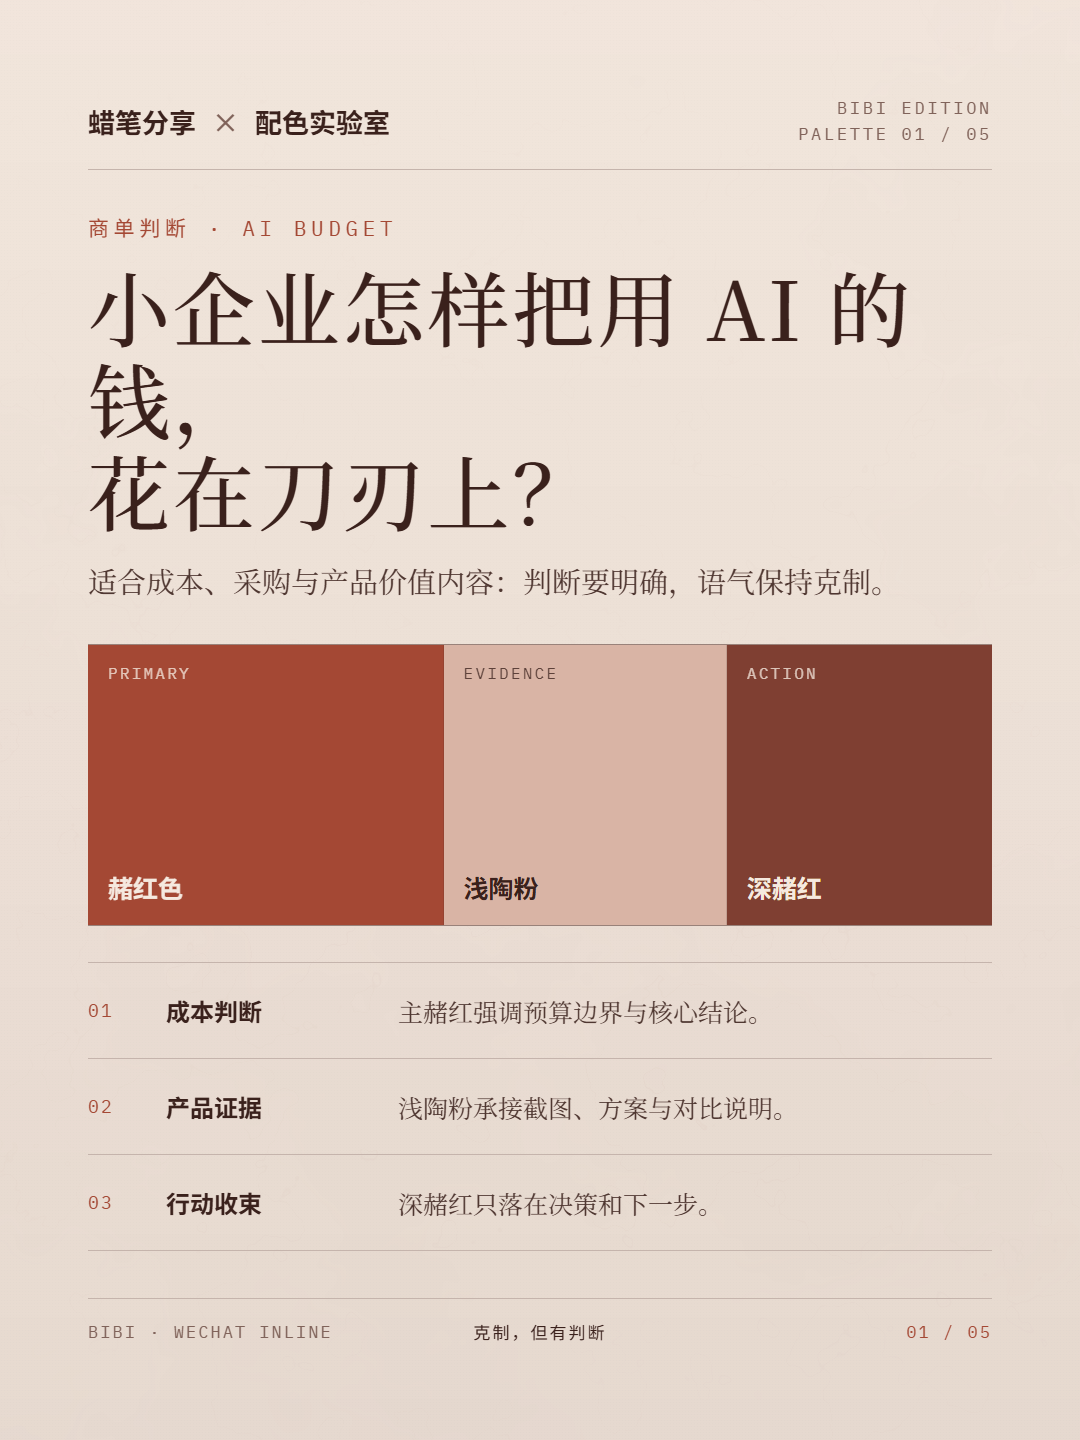
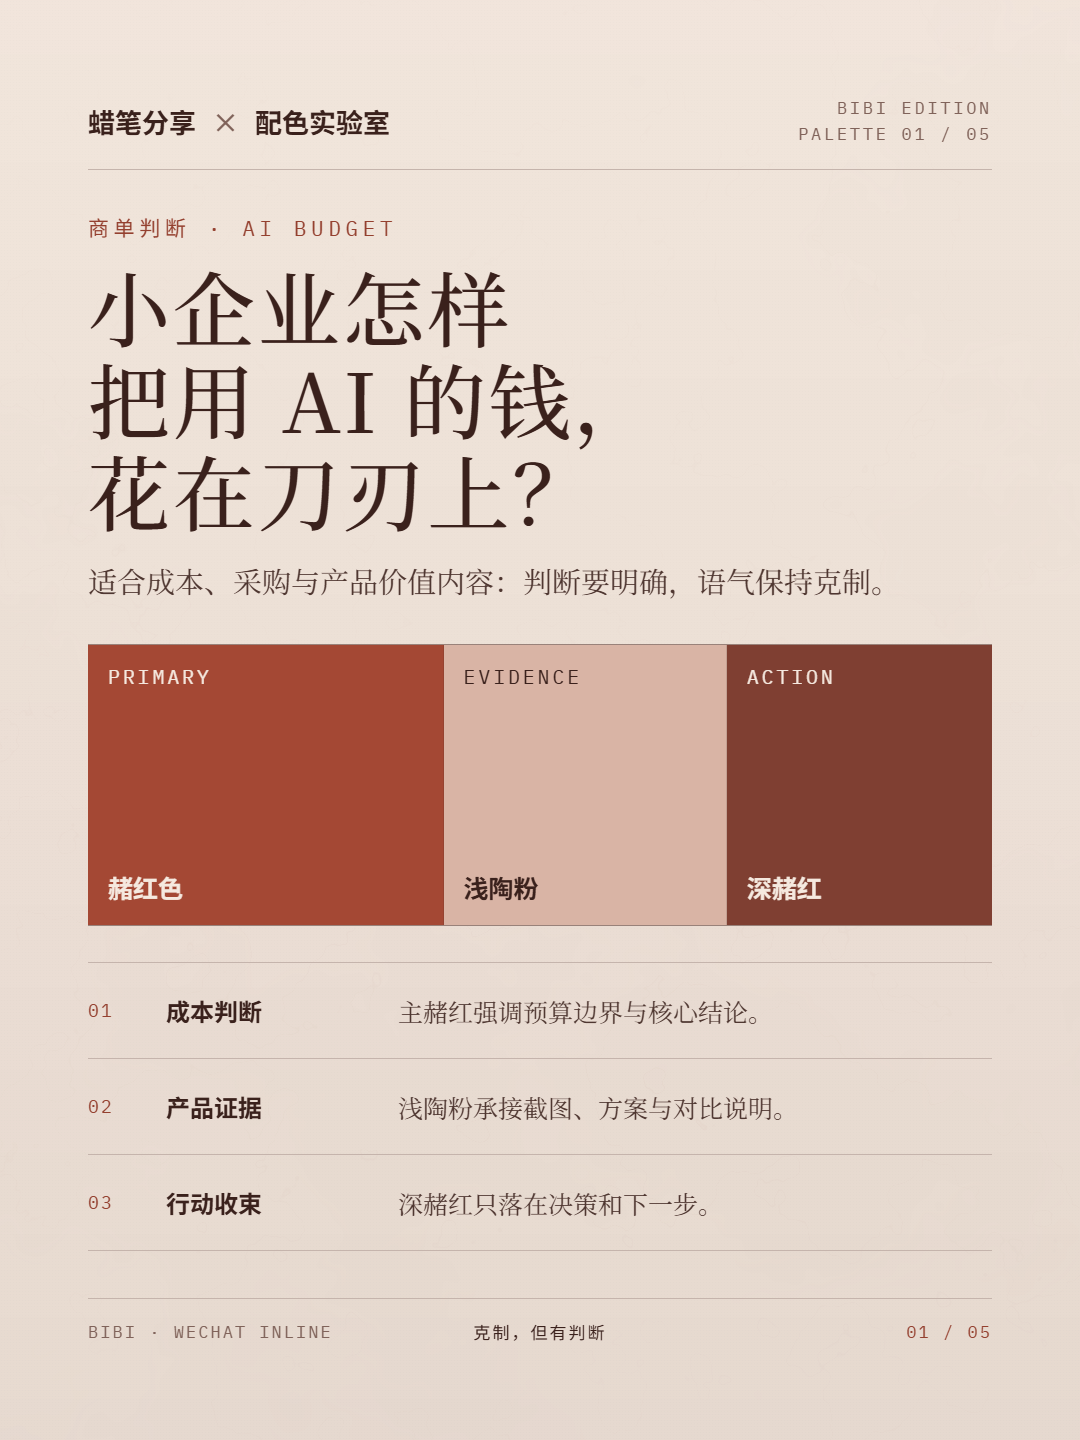
Validate WeChat body-card exports and improve palette text contrast

diff --git a/assets/template-editorial-card.html b/assets/template-editorial-card.html
@@ -601,6 +601,7 @@
 [data-theme="bibi-ochre-red"], [data-theme="ochre-red"]{
   --paper:#f5e9df; --paper-2:#e9d2c4; --ink:#3a211c; --muted:#80635a;
   --accent:#a44834; --accent-2:#d9b4a5; --accent-3:#7f3f32; --accent-soft:#d9b4a5; --accent-on:#f5e9df;
+  --accent-2-on:var(--ink); --accent-3-on:var(--paper);
   --accent-ink:#94402f; --accent-display:#a44834; --accent-ink-inverse:#e79985;
   --text-primary:#3a211c; --text-body:#4f3731; --text-secondary:#654d46; --text-helper:#80635a;
   --line-strong:#99827a; --line:#c5b4ac; --line-subtle:#ddd0c9;
@@ -611,6 +612,7 @@
 [data-theme="bibi-graphite-green"], [data-theme="graphite-green"]{
   --paper:#f5f1e8; --paper-2:#e8dfcf; --ink:#16251b; --muted:#5d665d;
   --accent:#2e6b4f; --accent-2:#a9b7a7; --accent-3:#1f513a; --accent-soft:#d4dfd2; --accent-on:#f5f1e8;
+  --accent-2-on:var(--ink); --accent-3-on:var(--paper);
   --accent-ink:#2e6b4f; --accent-display:#2e6b4f; --accent-ink-inverse:#88c6a6;
   --text-primary:#16251b; --text-body:#39473c; --text-secondary:#4d5a50; --text-helper:#5d665d;
   --line-strong:#899286; --line:#bcc1b8; --line-subtle:#d7d7ce;
@@ -621,17 +623,19 @@
 [data-theme="bibi-sage-moss"], [data-theme="sage-moss"]{
   --paper:#f4f4ed; --paper-2:#dde3d8; --ink:#263129; --muted:#667267;
   --accent:#7f927e; --accent-2:#aab7a5; --accent-3:#667a61; --accent-soft:#c8d2c3;
-  --accent-on:#f4f4ed; --accent-ink:#5f745f; --accent-display:#667a61; --accent-ink-inverse:#b8c9b4;
+  --accent-2-on:var(--ink); --accent-3-on:#ffffff;
+  --accent-on:#1b261e; --accent-ink:#526652; --accent-display:#667a61; --accent-ink-inverse:#b8c9b4;
   --text-primary:#263129; --text-body:#3e4941; --text-secondary:#536057; --text-helper:#667267;
   --line-strong:#879288; --line:#bac2b9; --line-subtle:#d6dbd2;
   --ink-rgb:38,49,41; --paper-rgb:244,244,237; --accent-rgb:127,146,126;
-  --accent-on-rgb:244,244,237; --accent-on-text:#f4f4ed; --accent-on-text-rgb:244,244,237;
+  --accent-on-rgb:27,38,30; --accent-on-text:#1b261e; --accent-on-text-rgb:27,38,30;
   color-scheme:light;
 }
 [data-theme="bibi-pear-gold"], [data-theme="pear-gold"]{
   --paper:#fbf6e3; --paper-2:#e8dfc7; --ink:#3b3426; --muted:#7a705a;
   --accent:#c4a760; --accent-2:#cdc1a2; --accent-3:#b6954a; --accent-soft:#e8dca8;
-  --accent-on:#3b3426; --accent-ink:#8d722d; --accent-display:#9c8038; --accent-ink-inverse:#6f571f;
+  --accent-2-on:var(--ink); --accent-3-on:#332c20;
+  --accent-on:#3b3426; --accent-ink:#735c24; --accent-display:#9c8038; --accent-ink-inverse:#6f571f;
   --text-primary:#3b3426; --text-body:#514936; --text-secondary:#655c47; --text-helper:#7a705a;
   --line-strong:#958a70; --line:#c8bea7; --line-subtle:#e3dbc6;
   --ink-rgb:59,52,38; --paper-rgb:251,246,227; --accent-rgb:196,167,96;
@@ -641,11 +645,12 @@
 [data-theme="bibi-terracotta-ochre"], [data-theme="terracotta-ochre"]{
   --paper:#f4e9e1; --paper-2:#e4c8b9; --ink:#442b25; --muted:#84675d;
   --accent:#a96050; --accent-2:#95584d; --accent-3:#b57a45; --accent-soft:#d9afa0;
-  --accent-on:#f4e9e1; --accent-ink:#914b3e; --accent-display:#a96050; --accent-ink-inverse:#e0aa99;
+  --accent-2-on:var(--paper); --accent-3-on:#221310;
+  --accent-on:#fffaf6; --accent-ink:#834336; --accent-display:#a96050; --accent-ink-inverse:#e0aa99;
   --text-primary:#442b25; --text-body:#5a3e37; --text-secondary:#705248; --text-helper:#84675d;
   --line-strong:#9c8178; --line:#c9b3aa; --line-subtle:#dfcec7;
   --ink-rgb:68,43,37; --paper-rgb:244,233,225; --accent-rgb:169,96,80;
-  --accent-on-rgb:244,233,225; --accent-on-text:#f4e9e1; --accent-on-text-rgb:244,233,225;
+  --accent-on-rgb:255,250,246; --accent-on-text:#fffaf6; --accent-on-text-rgb:255,250,246;
   color-scheme:light;
 }
 /* BIBI:FORK-THEMES:END */

diff --git a/SKILL.md b/SKILL.md
@@ -1,6 +1,6 @@
 ---
 name: guizang-social-card-skill
-description: Generate Guizang-style social card image sets, Bibi-branded WeChat inline cards, Live Photo motion cards, material-first Live Photo puzzle layouts, triple Live Photo collages, long-video-to-Live-Photo treatments, and WeChat official account cover pairs from articles, scripts, screenshots, product notes, subtitles, photos, or user-supplied videos. Use when the user asks for 小红书图文, Rednote/Xiaohongshu images, 公众号贴图, 公众号小绿书, 公众号正文配图, 笔笔贴图, social cards, carousel images, 3:4 covers, Live Photo, 实况照片, 单视频实况拼图, 二宫格实况拼图, 三连实况拼图, 四宫格实况拼图, 微信公众号封面, WeChat 21:9 + 1:1 covers, Swiss Style, or magazine-style social images.
+description: Make Guizang-style social cards, Bibi WeChat body cards, material-first Live Photo puzzle layouts, or paired WeChat covers. Use for 小红书图文, 公众号贴图, 公众号小绿书, 笔笔贴图, 公众号正文信息卡, Swiss Style or editorial carousels, Live Photo/实况照片, multi-well motion collages, or 微信公众号封面 (21:9 + 1:1). For general 公众号正文配图, use this only when the user wants typeset information cards. Follow an explicitly requested illustration or article-layout workflow for those deliverables.
 ---
 
 # Guizang Social Card Skill
@@ -21,7 +21,7 @@ Use this skill for:
 - Triple Live Photo collages when the user has three short videos, three results, three viewpoints, or a high-information comparison that should stay inside one image-card unit.
 - Long-video intake for Live Photo: diagnose whether to trim, speed up, split into a triple collage, or ask the user for a specific time range before rendering.
 - WeChat Official Account cover pairs: one `21:9` main cover plus one `1:1` square cover, composed together in the same HTML for visual checking.
-- Bibi WeChat inline card sets: `1080 × 1440` / `3:4` cover plus content pages, using the recurring co-brand header/footer and one maintained Bibi personal palette.
+- Bibi WeChat inline cards: `1080 × 1440` / `3:4` body cards, single or grouped as requested, using consistent header/footer and one maintained Bibi palette or an explicitly requested brand theme.
 - Screenshot-heavy product posts, article covers, tutorial carousels, outdoor/lifestyle notes, AI/product update explainers.
 - Social images that need Guizang-style Swiss or editorial magazine layouts.
 
@@ -81,7 +81,7 @@ Read these files as needed:
 - `references/image-overlay.md` whenever text sits on top of a photo: photo qualification, localized tint fallback, and face / subject avoidance via multimodal subject mapping.
 - `references/screenshot-treatment.md` when the user supplies an app / web / code / dashboard screenshot — picks `.frame-shot` over `.frame-img`, sets corners/shadow/bg/inset, decides on `.device-browser` or `.device-phone` chrome.
 - `references/co-brand-header.md` whenever a supplied logo is paired with a creator credit, partner name, sponsor, or recurring header lockup — normalize visible bounds first, then apply optical alignment and multi-page consistency checks.
-- `references/bibi-wechat-inline.md` whenever the user asks for 公众号贴图 / 公众号小绿书 / 公众号正文配图 / 笔笔贴图, or asks to continue the recurring co-brand header, footer, or any maintained Bibi personal palette.
+- `references/bibi-wechat-inline.md` for 公众号贴图 / 公众号小绿书 / 笔笔贴图 or body illustrations explicitly requested as typeset cards, and when reusing Bibi's header, footer, or palettes.
 - `references/map-component.md` when the content has spatial relationships (travel route, store locations, walking tour) — real routes default to Mapbox Static or OSM static tiles; schematic SVG is only for conceptual / illustrative maps. Pins are HTML overlays; never use live JS maps.
 - `references/title-shortener.md` when the task is a WeChat 21:9+1:1 cover pair, or any cross-platform reuse — derives the 1:1 short title from the long one (5-step extraction, 4 patterns, anti-patterns, sizing on `.poster.square`).
 - `references/category-cookbook.md` to route a user-named Rednote category (旅行 / 职场 / 游戏 / 影视 / 彩妆 / 美食 / 穿搭 / 家居 / 健身 / 情感 / 推荐) to applicable recipes and to confirm scope.
@@ -93,6 +93,7 @@ Read these files as needed:
 
 Gather only the missing information that changes the output:
 
+- For text-led Bibi WeChat body cards, the article or notes can supply the evidence. Skip the image-source question below unless the requested layout or claim needs a specific image.
 - Target platforms and ratios.
 - Source text, subtitles, article, or title.
 - **Rednote category** — if the user names one of the 11 common types (旅行 / 职场 / 游戏 / 影视 / 美食 / 彩妆 / 穿搭 / 家居 / 健身 / 情感 / 推荐), route via `references/category-cookbook.md` to find the right recipes and to confirm the request is inside the capability circle (see "Rednote Category Capability" above). If a request lands in the outside-scope bucket, surface that to the user **before** designing, do not silently retrofit.
@@ -135,12 +136,14 @@ For WeChat cover pairs:
 
 For Bibi WeChat inline cards:
 
-- Produce a `3:4` cover plus 4-8 content pages unless the source needs fewer pages.
-- Use one clear idea per page with a kicker, title, short explanation, evidence image/screenshot, and bottom takeaway when applicable.
+- Follow the requested count and roles. For an unspecified multi-card set, consider a `3:4` opener and 4–8 content pages; for a single body card, design it to be inserted at its intended paragraph.
+- Use one clear idea per page. Support it with the source text, verified data, a real screenshot, or a clearly labelled diagram as appropriate. Request a missing visual only if it is necessary to support the claim or fulfil the brief.
 - Keep the recurring co-brand header and page footer optically aligned across the set.
 - Read `references/bibi-wechat-inline.md` before planning or rendering.
 
 ### 3. Choose Style Mode
+
+For Bibi WeChat inline cards, use Editorial and the [Bibi palette rules](references/bibi-wechat-inline.md#笔笔专属主题). Follow a different visual direction only when the user explicitly asks for it.
 
 Pick one mode per package. **The two systems are not bound to specific content types** — what changes is the visual stance, not which topic you can talk about. A workplace essay can be Editorial; a travel ledger can be Swiss. Pick by the feeling you want, not by category lookup.
 
@@ -221,7 +224,7 @@ Default implementation pattern:
 - Put source images in `assets/`.
 - For recurring branded or co-branded headers, preserve the original logo, create a tightly cropped derivative when the source canvas has accidental padding, and reuse one lockup component across the full set. Inspect a 100% header crop before full-deck rendering; see `references/co-brand-header.md`.
 - Start from the seed template copied in Step 4.5, not a blank file. Prefer changing only the `<!-- POSTERS_HERE -->` region page-to-page. If a task needs custom layout CSS, add one clearly named task-scoped block in the copied file and keep semantic defaults reset (`figure { margin:0; }`, no browser-default spacing surprises).
-- Install dependencies once in the skill root: `npm install` (Playwright for rendering and validation, subset-font for font embedding).
+- Install dependencies once in the skill root with `npm install`. If Playwright's browser is missing, run `npx playwright install chromium` before rendering.
 - Render with `node <SKILL_ROOT>/scripts/render.mjs <task-dir>`. It embeds the fonts the page actually uses (offline, repeatable), waits for the frozen background and icons, writes `output/<poster-id>.png` plus the pair preview, and fails if an image is not its board size. User-registered local fonts (`node <SKILL_ROOT>/scripts/gz-fonts.mjs add …`) are embedded too and never leave the machine.
 - Inspect the rendered PNGs.
 - Keep `node validate-social-deck.mjs <task-dir>` available for auto-check passes. It checks overflow (R1), footer collision (R2), Swiss bold display (R3), minimum font size (R4), 4-band density (R5), `.h-xl` line caps (R6), browser-default figure margin drift (R7), visual bounds / bottom whitespace (R8), and title-to-content gaps (R9). Exit code 1 on any FAIL — fix before final delivery when auto-check is requested. WARN is advisory but read it.
@@ -309,6 +312,8 @@ If an image is only one element among many in a composite (e.g. one of nine phot
 
 ### 7. Deliver
 
+**Bibi WeChat inline cards.** Run `node <SKILL_ROOT>/validate-social-deck.mjs <task-dir> --bibi-inline`, then render and inspect the exact output files. Check the PNG count and IDs against the requested plan, confirm each file is 1080×1440, and inspect the cards at phone reading width before delivery. Fix FAILs and any visual issues; assess remaining WARNs against the actual layout. This mode includes validation in the normal delivery flow.
+
 **Show user first, validate on request.** Auto-running the validator after every render takes too long and delays the user from seeing results. Default flow:
 
 1. After rendering completes, immediately show the user the rendered images inline (absolute paths) with a one-sentence summary of what was built.
@@ -316,7 +321,7 @@ If an image is only one element among many in a composite (e.g. one of nine phot
 3. If the user says "我自己看" / "先给我" / "no need" — stop here, let them inspect, and respond to whatever they raise.
 4. If the user says "你查吧" / "auto-check" / "yes" — only then run `node validate-social-deck.mjs <task-dir>`, fix any FAIL, and re-render before final delivery. Mention density/cap WARNs.
 
-Never silently run the validator before showing the user — it costs minutes per pass and the user often spots issues faster.
+The review-first flow above covers the other formats unless the user asks for validation before delivery.
 
 Final response (after the user has reviewed or asked for auto-check) should include:
 

diff --git a/references/bibi-wechat-inline.md b/references/bibi-wechat-inline.md
@@ -1,20 +1,20 @@
 # 笔笔公众号正文贴图模式
 
-当用户说“公众号贴图”“公众号小绿书”“公众号正文配图”“笔笔贴图”，或要求沿用笔笔的联名页头、页尾与个人色调时，使用本模式。
+当用户说“公众号贴图”“公众号小绿书”“笔笔贴图”，或把公众号正文配图指定为排版信息卡时，使用本模式。用户指定蜡笔女孩等插画风格、整篇公众号排版或动态实况时，采用对应的交付流程。
 
 这个模式用于公众号文章正文中的竖版图文卡，不是公众号 `21:9 + 1:1` 封面对。
 
 ## 输出规格
 
 - 画布：`1080 × 1440`，比例 `3:4`。
-- 常规结构：1 张封面 + 4-8 张内容页；内容较完整时最多 9 张。
+- 按用户指定的张数和用途交付。只有需要一整组且没指定张数时，才参考 1 张开场页 + 4–8 张内容页，按信息量增减。只要 1 张正文图时直接对应段落。
 - PNG 输出，文字与关键图片放在 72-96px 横向安全边距内。
 - 文件名：`wechat-inline-01-cover.png`、`wechat-inline-02-<topic>.png`……
 - 每页只讲一个核心判断；完整论证留在公众号正文里。
 
 ## 笔笔专属主题
 
-用户指定颜色时直接使用；未指定时根据内容选择：
+用户点名预设时直接使用。指定品牌色时按 Skill 入口的品牌主题生成方式构建 Editorial 主题；辅助色可用 `--accent-soft` 或 `--paper-2`。未指定时根据内容选择：
 
 - `bibi-ochre-red` / `ochre-red`：赭红纸墨。适合商单、成本、产品价值、采购判断与案例内容。
 - `bibi-graphite-green` / `graphite-green`：石墨绿。适合 AI 工具、工作流、教程、方法论与理性分析。
@@ -30,6 +30,7 @@
 - `--accent-2`：证据区、次级标签、对照项；
 - `--accent-3`：行动建议、页码或小面积收束；
 - 标题和说明性标签继续使用 `--ink`，浅色只做纸底或大面积低对比分区。
+- 关键小字用 `--accent-ink`。预设色块上的文字分别用 `--accent-on`、`--accent-2-on`、`--accent-3-on`。自定义底色或叠加透明度后，按实际底色重查小字对比度，至少达到 4.5:1。
 
 单张卡通常使用主色 + 1 个辅助色即可；只有比较、三段结构或配色样卡才同时展示三色。不要把每个段落染成不同颜色。
 
@@ -72,7 +73,7 @@
 - 小标题 / kicker；
 - 清晰的本页标题；
 - 1 句解释或短正文；
-- 官方截图、源图、对比或结构化证据；
+- 来源支持的证据，例如官方截图、源图、原文摘录、数据对比或明确标示为示意的结构图。以文字资料为主时照样可以制作，示意和未核验数字不可当成实测。
 - 底部结论、指标带或行动建议。
 
 内容不能过密，也不能靠空白制造“高级感”。可见内容覆盖至少 75% 画布高度，任何超过 15% 画布高度的纯空白带都必须有明确理由。
@@ -83,9 +84,10 @@
 
 ## 交付前检查
 
+- 使用 Editorial 模板，让每张正式卡对应一个独立的 `<section class="poster xhs" id="wechat-inline-…">`。先跑 `node <SKILL_ROOT>/validate-social-deck.mjs <task-dir> --bibi-inline` 检查画板、图片是否加载和排版，再渲染。核对这批 PNG 的数量、顺序、文件名和实际尺寸。
 - 单独截取页头 100% 检查 Logo、`×` 和“蜡笔分享”的视觉中线、字重与间距。
 - 用 contact sheet 检查所有页头、页尾和页码是否跳动。
 - 检查封面是否上挤下空、标题是否在手机缩略图中仍然足够大。
 - 检查截图内部是否出现超过 15% 的无意义色块留白。
-- 检查每张内容页是否同时具备小标题、内容与证据，而不是只有标题或只有截图。
+- 缩到手机正文宽度检查关键信息、截图文字和页尾。逐页核对关键事实与证据是否对应。
 - 价格、优惠、人数、效率和安全结论保持来源边界；不把示意测算写成普遍事实。

diff --git a/references/theme-presets.md b/references/theme-presets.md
@@ -70,12 +70,13 @@ These five maintained palettes belong to the public Bibi fork and intentionally 
 
 Use the accent for key numbers, decisive conclusions, and structural marks. Explanatory labels such as “适合谁 / 推荐场景 / 重点客群” stay in `--ink` by default. All Bibi themes use Editorial typography; the co-brand header uses a bold sans-serif lockup as defined in `bibi-wechat-inline.md`.
 
-For all five themes, `--accent` is the primary emphasis, `--accent-2` supports evidence or comparison, and `--accent-3` closes the page with an action or small structural marker. Use only the tones that serve the content; do not rainbow-code ordinary paragraphs.
+For all five themes, `--accent` is the primary emphasis, `--accent-2` supports evidence or comparison, and `--accent-3` closes the page with an action or small structural marker. Use `--accent-ink` for small accent text on either paper surface. For text on the three fills, pair them with `--accent-on`, `--accent-2-on`, and `--accent-3-on` respectively. Use only the tones that serve the content.
 
 ```css
 [data-theme="bibi-ochre-red"], [data-theme="ochre-red"] {
   --paper:#f5e9df; --paper-2:#e9d2c4; --ink:#3a211c; --muted:#80635a;
   --accent:#a44834; --accent-2:#d9b4a5; --accent-3:#7f3f32; --accent-soft:#d9b4a5; --accent-on:#f5e9df;
+  --accent-2-on:var(--ink); --accent-3-on:var(--paper);
   --accent-ink:#94402f; --accent-display:#a44834; --accent-ink-inverse:#e79985;
   --text-primary:#3a211c; --text-body:#4f3731; --text-secondary:#654d46; --text-helper:#80635a;
   --line-strong:#99827a; --line:#c5b4ac; --line-subtle:#ddd0c9;
@@ -83,6 +84,7 @@ For all five themes, `--accent` is the primary emphasis, `--accent-2` supports e
 [data-theme="bibi-graphite-green"], [data-theme="graphite-green"] {
   --paper:#f5f1e8; --paper-2:#e8dfcf; --ink:#16251b; --muted:#5d665d;
   --accent:#2e6b4f; --accent-2:#a9b7a7; --accent-3:#1f513a; --accent-soft:#d4dfd2; --accent-on:#f5f1e8;
+  --accent-2-on:var(--ink); --accent-3-on:var(--paper);
   --accent-ink:#2e6b4f; --accent-display:#2e6b4f; --accent-ink-inverse:#88c6a6;
   --text-primary:#16251b; --text-body:#39473c; --text-secondary:#4d5a50; --text-helper:#5d665d;
   --line-strong:#899286; --line:#bcc1b8; --line-subtle:#d7d7ce;
@@ -90,17 +92,20 @@ For all five themes, `--accent` is the primary emphasis, `--accent-2` supports e
 [data-theme="bibi-sage-moss"], [data-theme="sage-moss"] {
   --paper:#f4f4ed; --paper-2:#dde3d8; --ink:#263129; --muted:#667267;
   --accent:#7f927e; --accent-2:#aab7a5; --accent-3:#667a61; --accent-soft:#c8d2c3;
-  --accent-on:#f4f4ed; --text-primary:#263129; --text-body:#3e4941;
+  --accent-2-on:var(--ink); --accent-3-on:#ffffff;
+  --accent-on:#1b261e; --accent-ink:#526652; --text-primary:#263129; --text-body:#3e4941;
 }
 [data-theme="bibi-pear-gold"], [data-theme="pear-gold"] {
   --paper:#fbf6e3; --paper-2:#e8dfc7; --ink:#3b3426; --muted:#7a705a;
   --accent:#c4a760; --accent-2:#cdc1a2; --accent-3:#b6954a; --accent-soft:#e8dca8;
-  --accent-on:#3b3426; --text-primary:#3b3426; --text-body:#514936;
+  --accent-2-on:var(--ink); --accent-3-on:#332c20;
+  --accent-on:#3b3426; --accent-ink:#735c24; --text-primary:#3b3426; --text-body:#514936;
 }
 [data-theme="bibi-terracotta-ochre"], [data-theme="terracotta-ochre"] {
   --paper:#f4e9e1; --paper-2:#e4c8b9; --ink:#442b25; --muted:#84675d;
   --accent:#a96050; --accent-2:#95584d; --accent-3:#b57a45; --accent-soft:#d9afa0;
-  --accent-on:#f4e9e1; --text-primary:#442b25; --text-body:#5a3e37;
+  --accent-2-on:var(--paper); --accent-3-on:#221310;
+  --accent-on:#fffaf6; --accent-ink:#834336; --text-primary:#442b25; --text-body:#5a3e37;
 }
 ```
 

diff --git a/references/production-workflow.md b/references/production-workflow.md
@@ -27,9 +27,9 @@ Build one HTML file containing all frames:
 <main class="sheet">
   <section class="poster xhs" id="xhs-01">...</section>
   <section class="poster xhs" id="xhs-02">...</section>
-  <section class="cover wechat wide" id="wechat-21x9">...</section>
-  <section class="cover wechat square" id="wechat-1x1">...</section>
-  <section class="wechat-pair-preview" id="wechat-pair-preview">
+  <section class="poster cover wechat wide" id="wechat-21x9">...</section>
+  <section class="poster cover wechat square" id="wechat-1x1">...</section>
+  <section class="pair-preview wechat-pair-preview" id="wechat-pair-preview">
     <div class="preview-wide">...</div>
     <div class="preview-square">...</div>
   </section>

diff --git a/references/platform-specs.md b/references/platform-specs.md
@@ -62,7 +62,7 @@ This is a static body-card mode, not the `21:9 + 1:1` cover pair and not automat
 
 - Canvas: `1080 x 1440`, ratio `3:4`.
 - Export: PNG.
-- Typical set: 1 cover + 4-8 content pages; use up to 9 only when the source genuinely needs it.
+- Follow the requested page count. An unspecified multi-card series can use 1 opener and 4–8 content pages; a single body insert needs just one card.
 - Safe area: 72-96px on the sides, 72-112px at the top, and 80-120px at the bottom.
 - Naming: `output/wechat-inline-01-cover.png`, then `output/wechat-inline-02-<topic>.png`.
 - Bibi-branded requests must also read `bibi-wechat-inline.md` for the recurring header/footer, density rules, and personal palettes.
